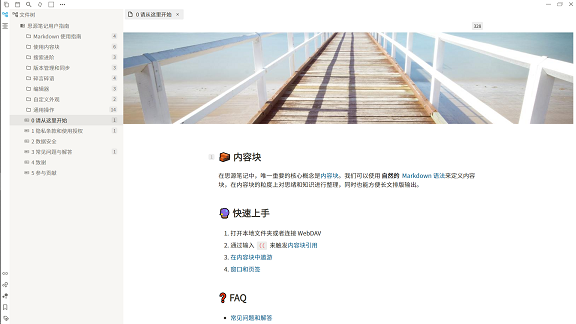
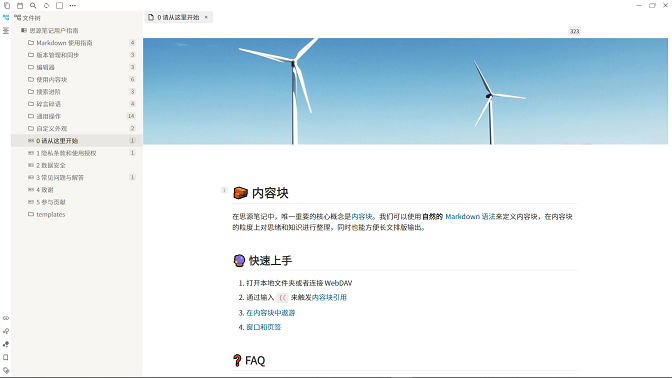
0.1.3 update

diff --git a/templates/Cover.md b/templates/Cover.md
@@ -1,8 +1,6 @@
 {{ $coverPath := nospace (cat "https://picsum.photos/id/" ((randInt 1 1083) | toString) "/1600/500")}}
 {: id="20210317143205-1pz24mz" updated="20210320140634"}
 
-![Cover]({{$coverPath}})
-{: id="20210317143346-aor64zl" updated="20210320140643"}
+<iframe src="{{$coverPath}}" scrolling="no" border="0" frameborder="no" framespacing="0"></iframe>
 
-
-{: id="20210317143205-7hcb4jn" type="doc"}
+{: id="20210323022832-g6ma0i4" updated="20210323022854"}
